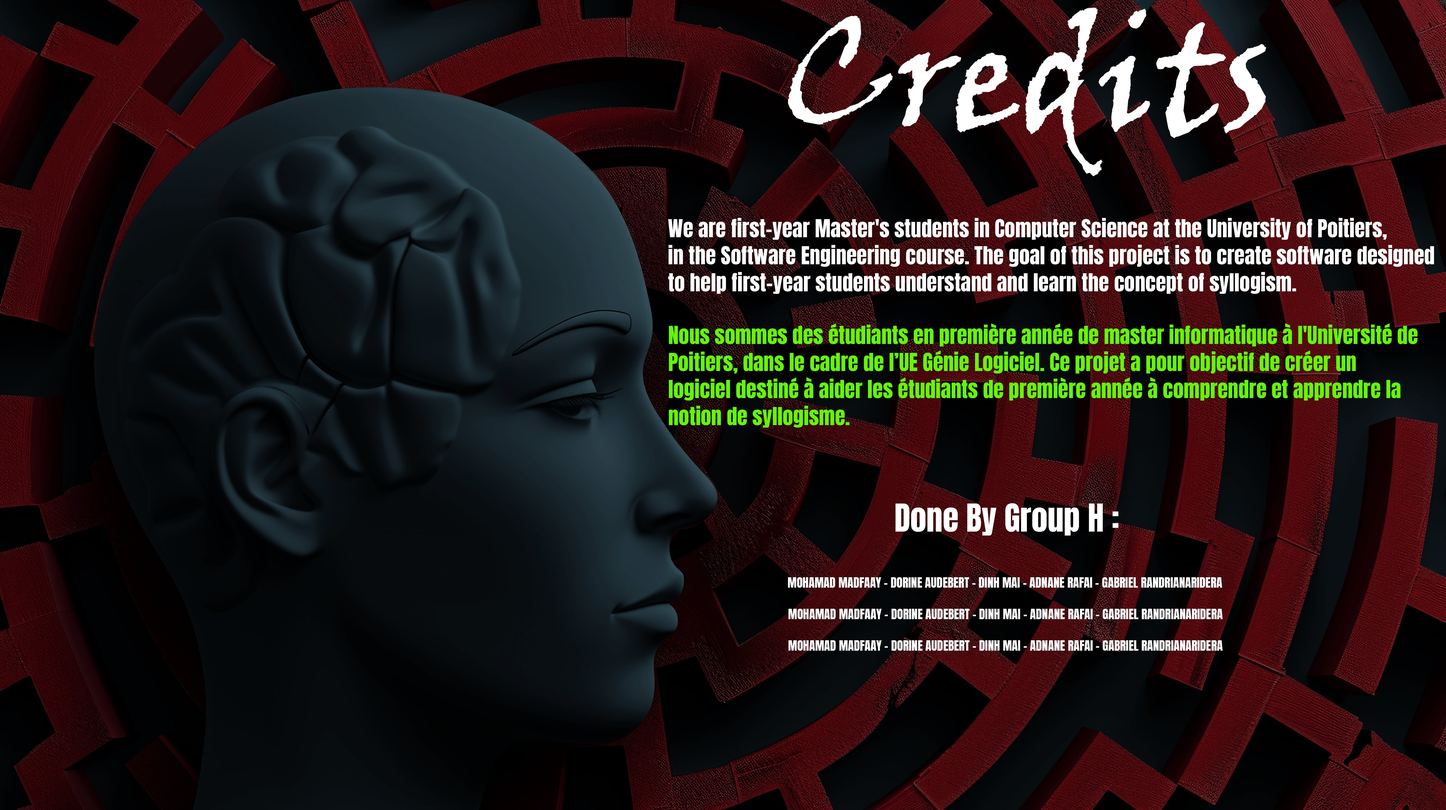
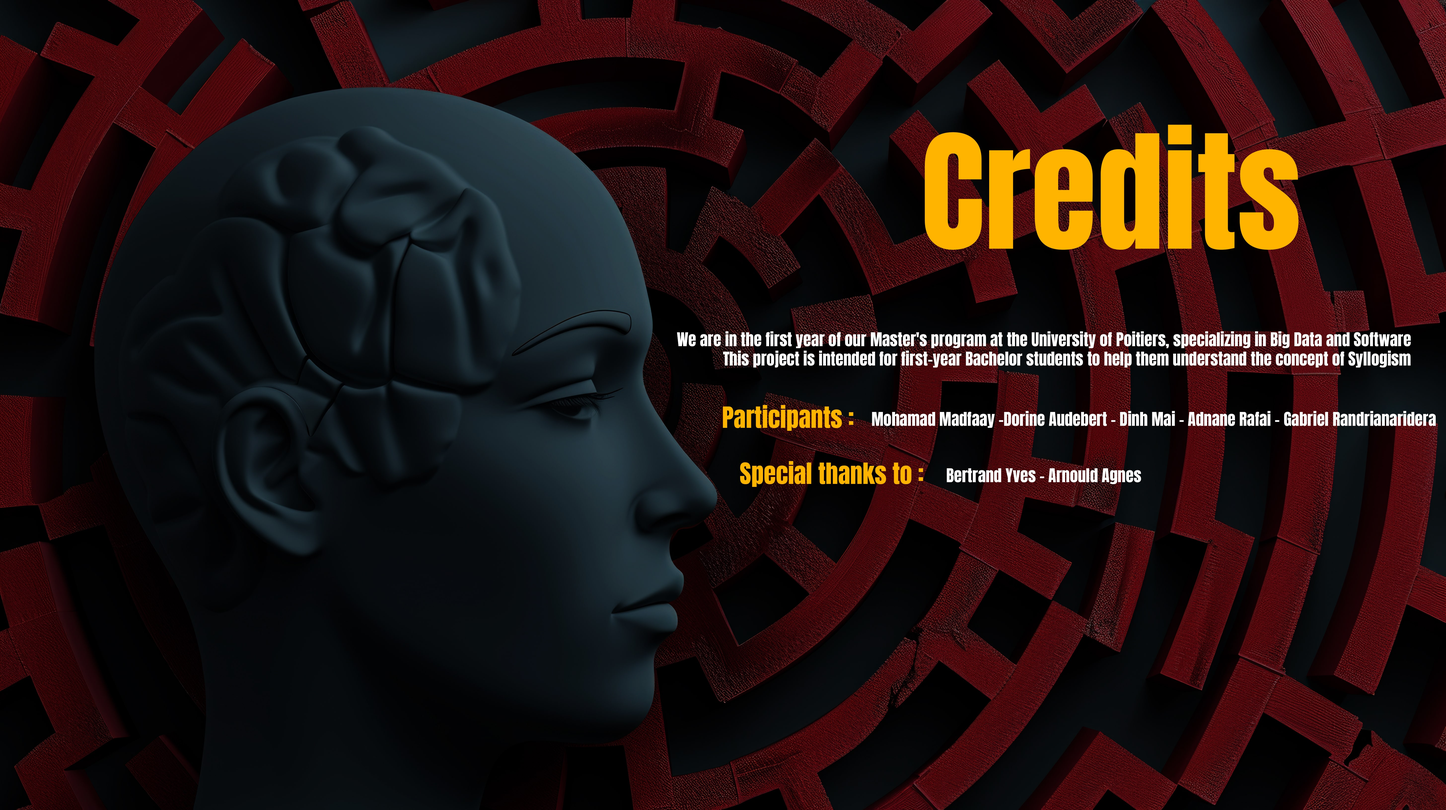
credits modifié

diff --git a/src/main/java/SyllogismeInterface/HelloController.java b/src/main/java/SyllogismeInterface/HelloController.java
@@ -231,7 +231,11 @@ public class HelloController {
             hideParams(); // Hide the parameters
             hideTitle();  // Hide the title
             // Set the background image for credits
-            relativePath = Paths.get("src", "IMAGES", "Credits.jpg");
+            if(this.language.equals("English"))
+                relativePath = Paths.get("src", "IMAGES", "Credits.jpg");
+            else
+                relativePath = Paths.get("src", "IMAGES", "CreditsFr.jpg");
+
             setBackgroundImage(relativePath.toAbsolutePath().toString());
             back.setVisible(true); // Show the back button
         }
@@ -240,6 +244,7 @@ public class HelloController {
             System.out.println("WhatSyllo label clicked!");
             relativePath = Paths.get("src", "IMAGES", "syllocours.jpg");
             setBackgroundImage(relativePath.toAbsolutePath().toString());
+
             // Show various course-related elements
             syllogismeCours.setVisible(true);
             polysyllogismeCours.setVisible(true);

diff --git a/src/main/java/traitement/Generator256.java b/src/main/java/traitement/Generator256.java
@@ -124,7 +124,7 @@ public class Generator256 {
      *      * Displays the total number of syllogisms, the number of valid and interesting syllogisms,
      *      * as well as the details of each syllogism generated.
      */
-    public void afficherSyllogismes() {
+    public void printSyllogismes() {
 
         System.out.println("Nombre total de syllogismes : " + syllogismes.size());
         System.out.println("Nombre de syllogismes valides : " + valideCount);

diff --git a/src/test/java/traitement/SyllogismTest.java b/src/test/java/traitement/SyllogismTest.java
@@ -6,7 +6,7 @@ import java.util.ArrayList;
 
 import static org.junit.jupiter.api.Assertions.*;
 
-//
+
 class SyllogismTest {
 
     /**
